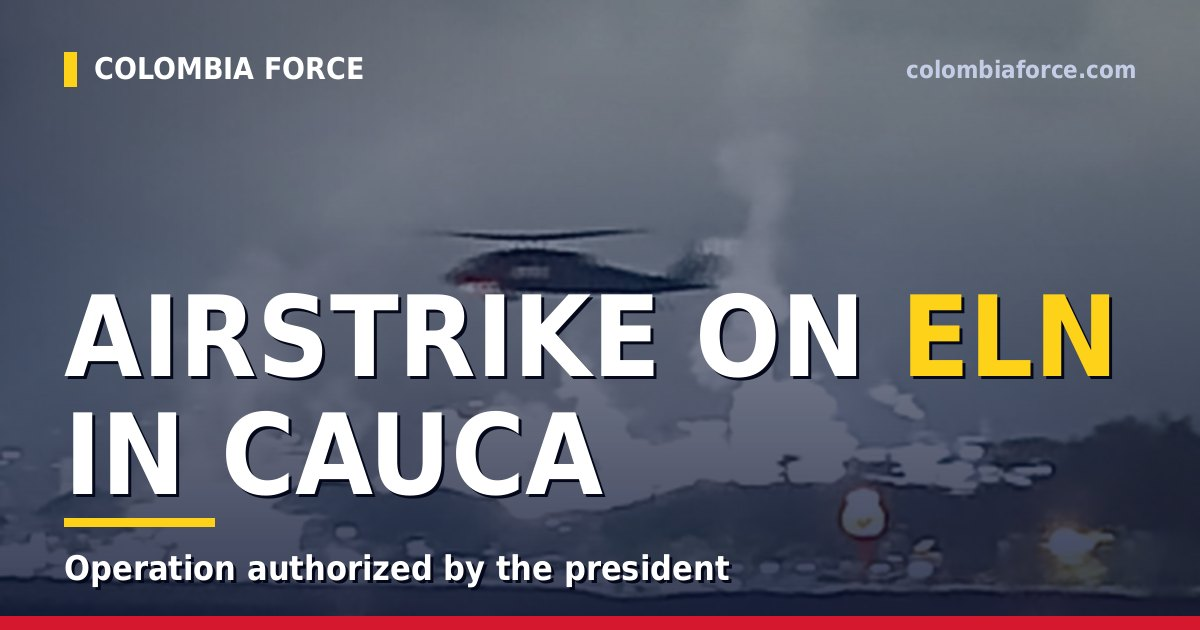
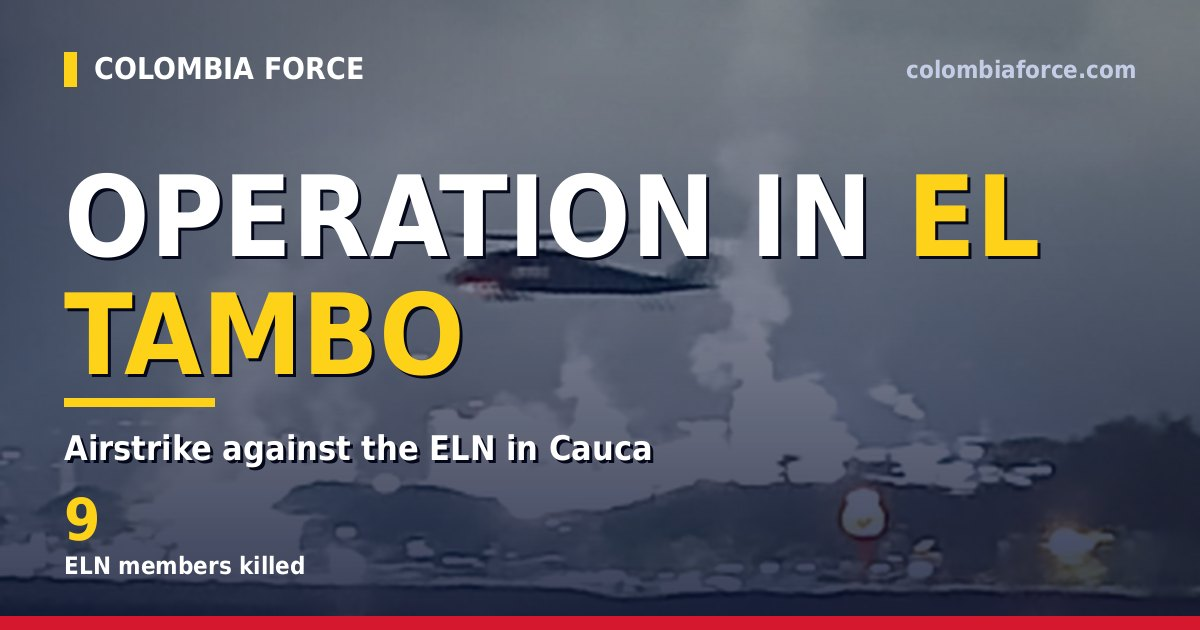
Nota publicada desde el issue #25

Changed region(s): [[0.0308, 0.4524, 0.6167, 0.9349], [0.0308, 0.2714, 0.8633, 0.4222], [0.5858, 0.4524, 0.925, 0.6032]]

diff --git a/src/content/blog/es/bombardeo-eln-cauca-autorizado-presidente.md b/src/content/blog/es/bombardeo-eln-cauca-autorizado-presidente.md
@@ -1,0 +1,41 @@
+---
+title: "Bombardeo en El Tambo, Cauca: 9 integrantes del ELN dados de baja, entre ellos alias «Marcos Pacífico»"
+description: "El presidente De La Espriella informó los resultados de la operación aérea. La identidad del presunto cabecilla está pendiente de confirmación decadactilar."
+pubDate: 2026-10-22
+category: bajas
+departments: ["CAUCA"]
+heroImage: "/images/bombardeo-eln-cauca-autorizado-presidente-es.jpg"
+imageAlt: "Portada: Operación en EL TAMBO"
+---
+
+**ACTUALIZADO con los resultados informados por el Gobierno.**
+
+El presidente Abelardo De La Espriella informó que una operación de bombardeo de las Fuerzas Militares en zona rural de El Tambo, Cauca, dejó 9 integrantes del ELN dados de baja. Entre ellos estaría, según una identificación preliminar, alias «Marcos Pacífico», cuya identidad está pendiente de confirmación decadactilar.
+
+La operación había sido anunciada por el mandatario horas antes, cuando dijo que la autorizó a la 1:00 de la madrugada.
+
+![Imagen de la operación en El Tambo, Cauca](/images/bombing.png)
+
+## Lo que reportó el presidente
+
+- **Resultado:** 9 integrantes del ELN dados de baja en El Tambo, Cauca.
+- **Objetivo:** alias «Marcos Pacífico», señalado como segundo cabecilla y responsable militar del Frente de Guerra Suroccidental del ELN, y máximo jefe del frente José María Becerra.
+- **Estructura:** según el Gobierno, dirigía tres frentes que operan en Cauca, Nariño y Valle del Cauca.
+- **Atribuciones:** el Gobierno lo vincula con secuestros, atentados y ataques contra la Fuerza Pública en Cali y Buenaventura, y con órdenes a milicias urbanas del ELN durante las protestas de 2022.
+- **Estado de la identificación:** preliminar, pendiente de confirmación decadactilar.
+
+![Imagen de la operación en El Tambo, Cauca](/images/bombing1.png)
+
+## Aeronaves y hora (información no confirmada oficialmente)
+
+Según información que Colombia Force obtuvo de una fuente de la Fuerza Aérea Colombiana, que no ha sido confirmada de forma oficial, en la operación participaron al menos 5 aviones Super Tucano, 2 aviones caza Kfir y al menos 4 helicópteros Black Hawk, entre otros medios. La misma fuente indica que la operación concluyó cerca de las 3:00 a. m.
+
+## Qué falta por confirmar
+
+El Gobierno no ha publicado todavía un parte oficial con el detalle de unidades participantes, ni la confirmación decadactilar de la identidad de alias «Marcos Pacífico». Esta nota se actualizará cuando haya nueva información oficial.
+
+*Las cifras y afirmaciones son las reportadas por las fuentes oficiales y no han sido verificadas de forma independiente.*
+
+**Fuente:** [Cuenta oficial del presidente Abelardo De La Espriella](https://x.com/ABDELAESPRIELLA/status/2113349462404079867/photo/1).
+
+**Imagen:** Colombia Force.

diff --git a/src/content/blog/en/bombardeo-eln-cauca-autorizado-presidente.md b/src/content/blog/en/bombardeo-eln-cauca-autorizado-presidente.md
@@ -1,0 +1,42 @@
+---
+title: "Airstrike in El Tambo, Cauca: 9 ELN members killed, including alias \"Marcos Pacífico\""
+description: "President De La Espriella reported the results of the air operation. The identity of the alleged commander is pending fingerprint confirmation."
+pubDate: 2026-10-22
+category: bajas
+departments: ["CAUCA"]
+heroImage: "/images/bombardeo-eln-cauca-autorizado-presidente-en.jpg"
+imageAlt: "Cover: Operation in EL TAMBO"
+urlSlug: "eln-airstrike-cauca-authorized-president"
+---
+
+**UPDATED with the results reported by the government.**
+
+President Abelardo De La Espriella reported that an airstrike by the armed forces in rural El Tambo, Cauca, left 9 ELN members dead. Among them, according to a preliminary identification, was alias "Marcos Pacífico," whose identity is pending fingerprint confirmation.
+
+The operation had been announced by the president hours earlier, when he said he authorized it at 1:00 a.m.
+
+![Image of the operation in El Tambo, Cauca](/images/bombing.png)
+
+## What the president reported
+
+- **Result:** 9 ELN members killed in El Tambo, Cauca.
+- **Target:** alias "Marcos Pacífico," described as the second-in-command and military chief of the ELN's Southwestern War Front, and top leader of the José María Becerra front.
+- **Structure:** according to the government, he led three fronts operating in Cauca, Nariño and Valle del Cauca.
+- **Allegations:** the government links him to kidnappings, attacks and assaults on security forces in Cali and Buenaventura, and to orders given to ELN urban militias during the 2022 protests.
+- **Identification status:** preliminary, pending fingerprint confirmation.
+
+![Image of the operation in El Tambo, Cauca](/images/bombing1.png)
+
+## Aircraft and timing (not officially confirmed)
+
+According to information Colombia Force obtained from a source in the Colombian Air Force, which has not been officially confirmed, at least 5 Super Tucano aircraft, 2 Kfir fighter jets and at least 4 Black Hawk helicopters, among other assets, took part in the operation. The same source says it concluded around 3:00 a.m.
+
+## What is still unconfirmed
+
+The government has not yet published an official report detailing the units involved, nor the fingerprint confirmation of alias "Marcos Pacífico." This report will be updated when new official information is available.
+
+*Figures and claims are those reported by official sources and have not been independently verified.*
+
+**Source:** [President Abelardo De La Espriella's official account](https://x.com/ABDELAESPRIELLA/status/2113349462404079867/photo/1).
+
+**Image:** Colombia Force.
